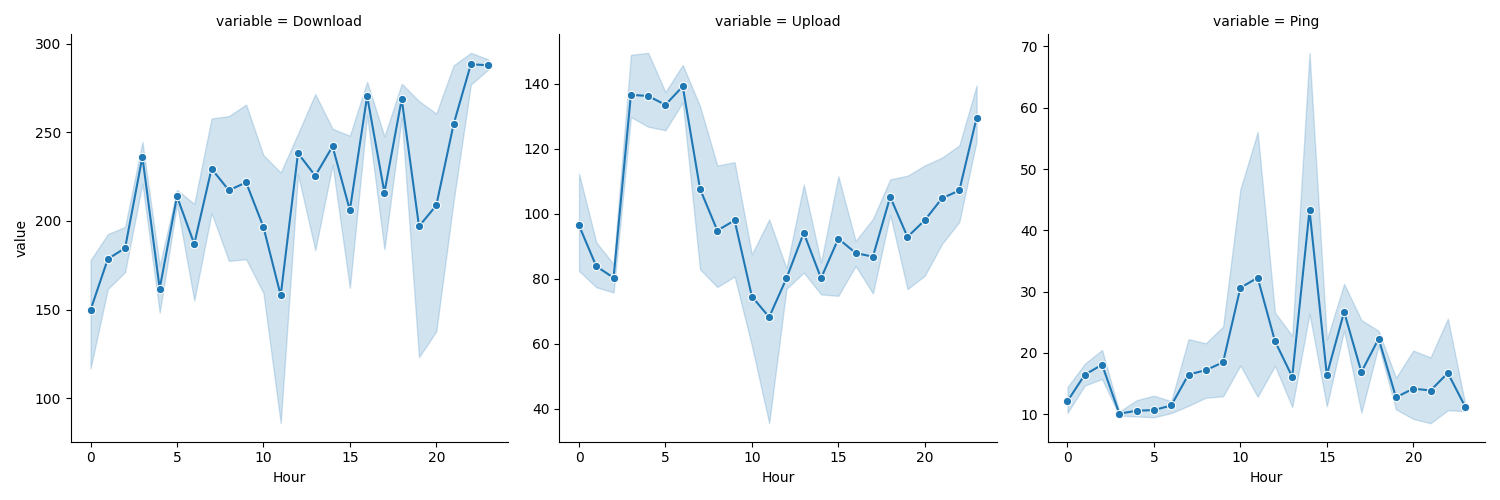
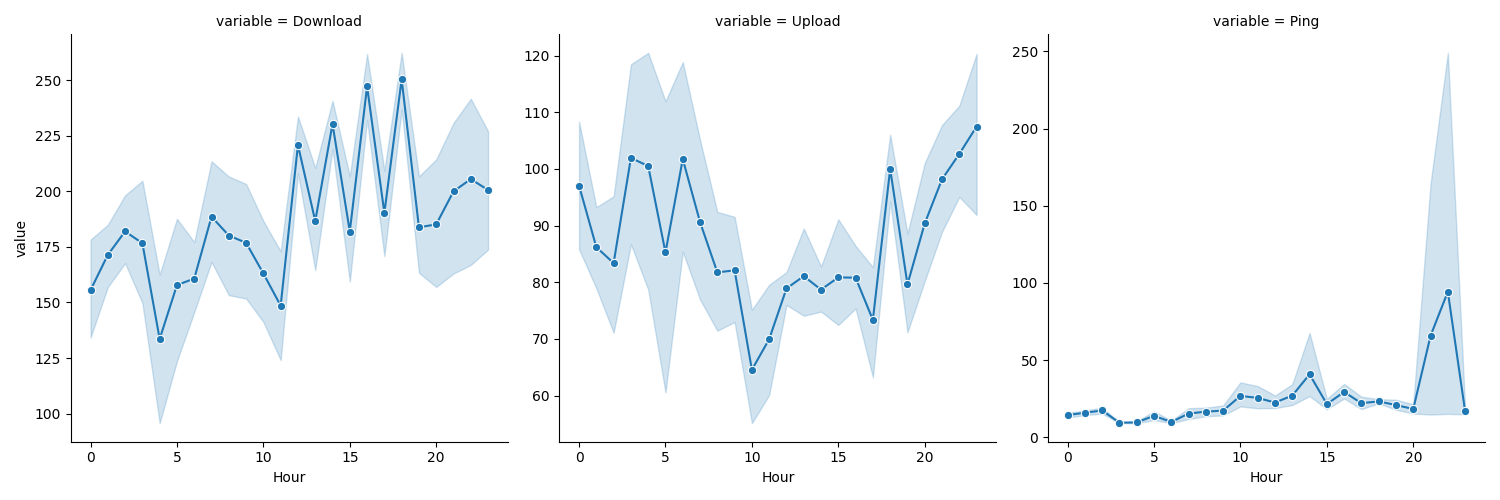
update

diff --git a/script.py b/script.py
@@ -23,11 +23,14 @@ cols = ["Download", "Upload", "Ping"]
 
 
 raw.loc[:, "Hour"] = raw.index.hour
+raw.query("Download<100").loc[:, cols]
 long_data = raw.loc[:, cols+["Hour"]].melt("Hour")
 long_data.head()
+
+
 sns.catplot(data=long_data, x="Hour", y="value", col="variable", kind="point", sharey=False, estimator=np.mean)
-g = sns.relplot(x="Hour", y="value", col="variable", kind="line", data=long_data, marker="o",
-        facet_kws={"sharey": False})
+g = sns.relplot(x="Hour", y="value", col="variable", kind="line", data=long_data, marker="o", facet_kws={"sharey": False})
+# plt.show()
 plt.savefig("/home/mgreco/github/mmngreco/speedtest/test.png")
 
 by_hour_mean = raw.groupby(lambda x: x.hour)[cols].mean()
